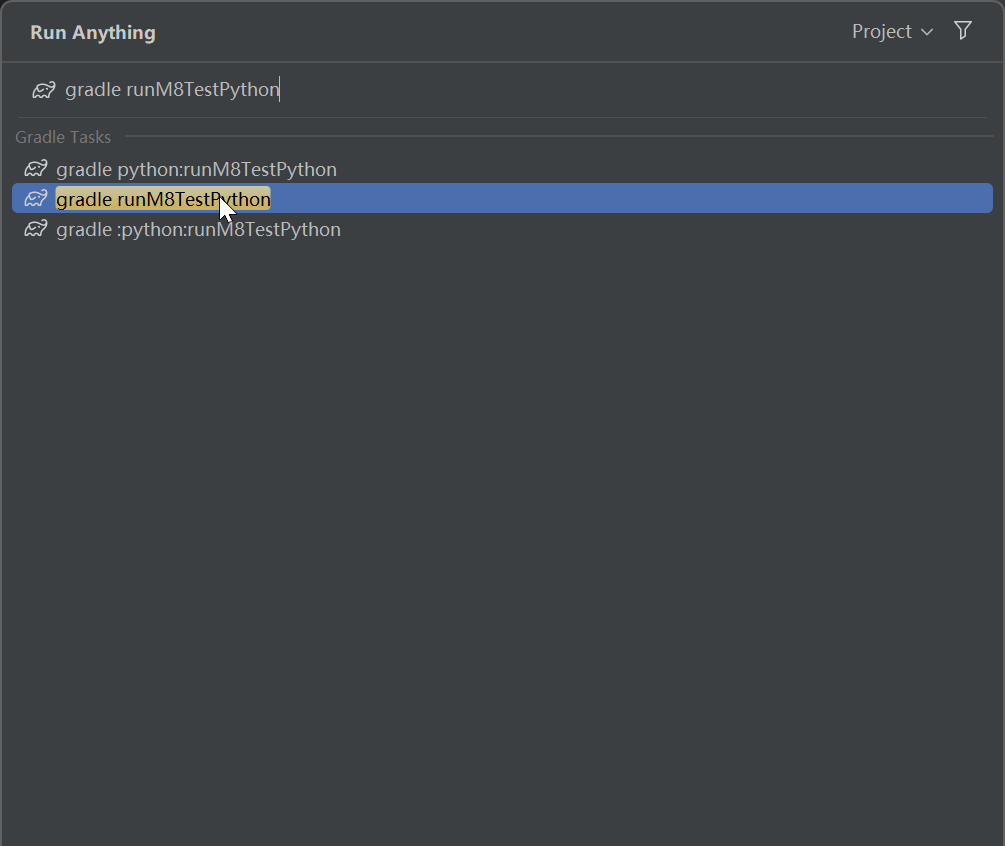
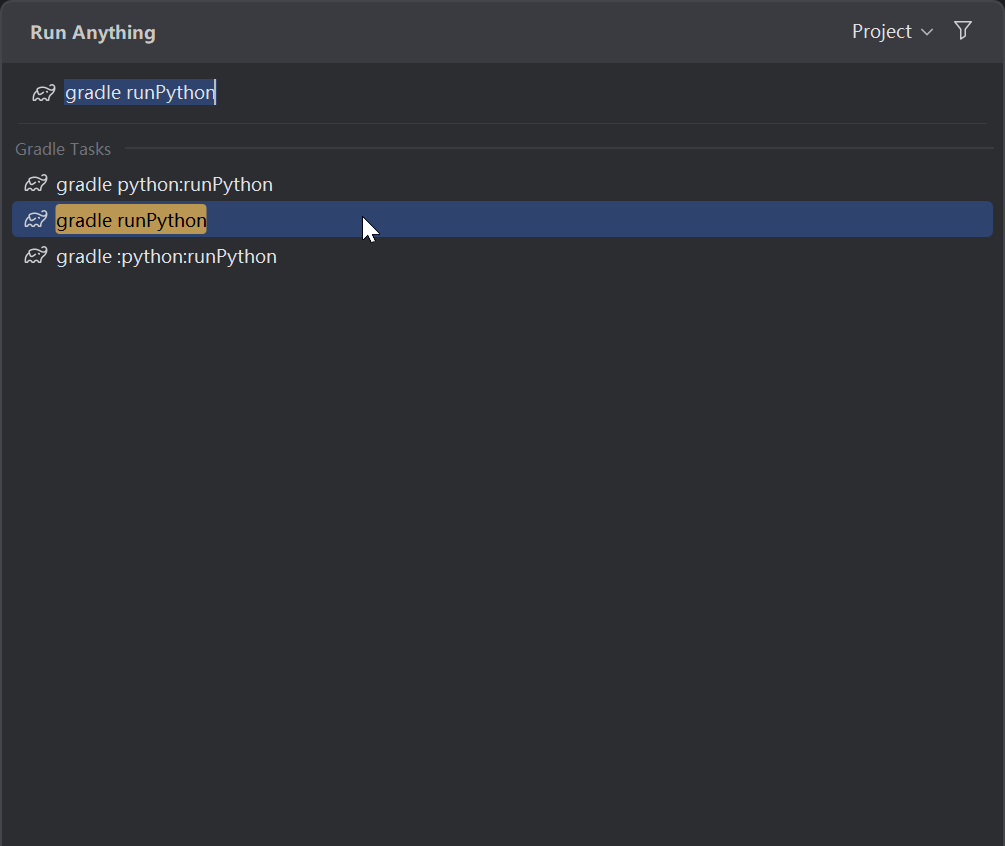
feat: 增加了UI相关代码

diff --git a/python/src/python/com/example/script/primary.py b/python/src/python/com/example/script/primary.py
@@ -1,0 +1,36 @@
+# from 引入时必须使用相对于src目录的路径
+from m8test_java.android.view.Gravity import Gravity
+from m8test_java.android.widget.Button import Button
+from m8test_java.android.widget.FrameLayout import FrameLayout
+# 必须使用 `from m8test_java.com.m8test.script.GlobalVariables import xxx` xxx是全局变量名
+from m8test_java.com.m8test.script.GlobalVariables import _activity
+from m8test_java.com.m8test.script.GlobalVariables import _androidView
+from m8test_java.com.m8test.script.GlobalVariables import _console
+from m8test_java.com.m8test.script.GlobalVariables import _reflectors
+from m8test_java.com.m8test.script.GlobalVariables import runOnUiThread
+from python.com.example.tool.ToolB import ToolB
+
+toolB = ToolB()
+toolB.methodB(_console)
+
+
+# 用于构建界面的函数
+def fn(frame_layout: FrameLayout):
+    button = Button(frame_layout.getContext())
+    button.setText("Hello")
+    # 添加按钮点击事件, 点击后设置按钮文本为Hi
+    button.setOnClickListener(lambda _: button.setText("Hi"))
+    # 如果不能通过`.`访问静态属性, 那么可以反射获取
+    wrap_content = (_reflectors.reflect(FrameLayout.LayoutParams)
+                    .getField(None, lambda selector: selector.setName("WRAP_CONTENT")))
+    layout_params = FrameLayout.LayoutParams(wrap_content, wrap_content)
+    # 居中显示按钮, 访问非内部类静态属性直接通过`.`调用
+    layout_params.gravity = Gravity.CENTER
+    # 添加视图时必须在安卓UI线程
+    runOnUiThread(lambda: frame_layout.addView(button, layout_params))
+
+
+# 创建需要显示的界面
+_androidView.create(False, fn)
+# 启动ui界面
+_activity.start()

diff --git a/python/src/python/com/example/tool/ToolB.py b/python/src/python/com/example/tool/ToolB.py
@@ -1,5 +1,5 @@
-from com.example.tool.ToolA import ToolA
 from m8test_java.com.m8test.script.core.api.console.Console import Console
+from python.com.example.tool.ToolA import ToolA
 
 
 class ToolB:

diff --git a/README.md b/README.md
@@ -7,23 +7,36 @@
 
 ## 📦 Gradle 任务说明
 
-1. **`buildM8TestPython`**  
-   构建 M8Test Python 脚本项目源码，但不执行脚本。构建完成后，源码位于 `build/project` 目录。
+### 任务分组
 
-2. **`generatePythonGlobalVariables`**  
-   生成 Python 全局变量，提供代码提示功能。需连接安卓设备，建议在编写代码前执行一次。如果 `build.gradle.kts`
-   中的依赖组件更新，需重新执行。
+1. **`m8test-build`**  
+   M8Test构建相关任务组，包含`buildPython`（构建Python项目）、`runPython`（运行项目）等任务。
 
-3. **`handlePythonAndroidJar`**  
-   生成 Android API 的 Python 代码提示文件。此任务耗时较长，执行一次即可。成功后，Python 代码中将有 Android API
-   的代码提示。
+2. **`m8test-code-completion`**  
+   M8Test代码补全相关任务组，包含`generatePythonAllCodeCompletionFiles` （生成所有需要的代码补全文件）,
+   `generatePythonGlobalVariables`（生成全局变量代码补全文件）等任务。
 
-4. **`installPythonInterceptor`**  
-   安装 Python 解析器。执行此任务会从网络下载 Python 并安装到 `~/.m8test/bin/python` 目录。若已安装 Python
-   解析器，执行此任务不会重新安装。
+3. **`m8test-developmenet-environment`**  
+   M8Test开发环境相关任务组，包含`installDevelopmentEnvironment`（安装开发环境）、`installPythonPlugin`（安装语言插件）等任务。
 
-5. **`runM8TestPython`**  
-   构建 M8Test Python 脚本项目，并将项目推送到已连接的安卓设备上运行。
+4. **`m8test-download`**  
+   M8Test资源下载相关任务组，包含`downloadPythonCodeTemplate`（下载示例代码模板）、`downloadPythonDocs`（下载文档）等任务。
+
+> 实际开发中主要关注构建任务和代码补全任务即可。
+
+### 常用任务
+
+| 任务名称                                                    | 任务分组                             | 功能描述                                                                                           |
+|---------------------------------------------------------|----------------------------------|------------------------------------------------------------------------------------------------|
+| `generatePythonAllCodeCompletionFiles`                  | `m8test-code-completion`         | 生成所有Python代码补全文件，会执行所有的 `generatePythonCodeXXXCodeCompletionFiles` 任务, 编写脚本之前执行一次此任务即可有代码提示功能。 |
+| `generatePythonGlobalVariables`                         | `m8test-code-completion`         | 生成Python全局变量代码补全文件，提供IDE代码提示功能。需连接安卓设备，建议编写代码前执行一次，依赖更新后需重新执行。                                 |
+| `generatePythonNormalAndroidCodeCompletionFiles`        | `m8test-code-completion`         | 生成 Android API 的 Python 代码提示文件。成功后，Python 代码中将有 Android API 的代码提示。                             |
+| `generatePythonNormalDevelopmentKitCodeCompletionFiles` | `m8test-code-completion`         | 生成 M8Test API 的 Python 代码提示文件。成功后，Python 代码中将有 M8Test API 的代码提示。                               |
+| `generatePythonComponentXXXCodeCompletionFiles`         | `m8test-code-completion`         | 生成 XXX 组件 API 的 Python 代码提示文件。成功后，Python 代码中将有 XXX 组件 API 的代码提示。                               |
+| `buildPython`                                           | `m8test-build`                   | 构建M8Test Python脚本项目源码（不执行），构建结果位于`build/project`目录。                                            |
+| `runPython`                                             | `m8test-build`                   | 构建并将项目推送到已连接的安卓设备上运行。                                                                          |
+| `buildPythonApk`                                        | `m8test-build`                   | 将M8Test Python脚本项目打包成APK文件。                                                                    |
+| `installPythonInterceptor`                              | `m8test-development-environment` | 安装 Python 解析器。执行此任务会从网络下载 Python 并安装到 `~/.m8test/bin/python` 目录。若已安装 Python 解析器，执行此任务不会重新安装。   |
 
 ---
 
@@ -32,7 +45,7 @@
 ### 方法一：使用快捷搜索
 
 1. 双击 `Ctrl` 键，打开搜索框。
-2. 输入 `gradle 任务名`，例如 `gradle runM8TestPython`，然后按回车执行。
+2. 输入 `gradle 任务名`，例如 `gradle runPython`，然后按回车执行。
 
    ![方法一示例](images/1.png)
 
@@ -47,7 +60,7 @@
 ### 方法三：使用终端命令
 
 1. 按下快捷键 `Alt + F12` 打开终端。
-2. 输入命令 `./gradlew 任务名`，例如 `./gradlew runM8TestPython`，然后按回车执行。
+2. 输入命令 `./gradlew 任务名`，例如 `./gradlew runPython`，然后按回车执行。
 
    ![方法三示例](images/3.png)
 
@@ -61,16 +74,13 @@
 
 ## 🛠 项目开发流程
 
-1. **生成全局变量**  
-   执行 `generatePythonGlobalVariables` 任务，生成 Python 全局变量，提供代码提示功能。
+1. **生成代码提示文件**  
+   执行 `generatePythonAllCodeCompletionFiles` 任务，生成 Python 代码补全文件，提供代码提示功能。
 
-2. **生成 Android API 提示文件**  
-   执行 `handlePythonAndroidJar` 任务，生成 Android API 的 Python 代码提示文件。
+2. **安装 Python 解析器**  
+   执行 `installPythonInterceptor` 任务，安装 Python 解析器, 如果使用M8Test集成开发环境的话已经自带python解析器, 此步骤可以跳过。
 
-3. **安装 Python 解析器**  
-   执行 `installPythonInterceptor` 任务，安装 Python 解析器。
-
-4. **配置 Python 解析器**
+3. **配置 Python 解析器**
 
    如果项目没有配置python解析器就会出现下面的提示, 这时候可以点击 `configure python interceptor` <br>
 
@@ -125,11 +135,14 @@
 
    ![](images/16.png)
 
-5. **连接日志服务**
+4. **连接日志服务**
 
    按下快捷键 `Alt + T`，依次选择 `M8Test` > `连接日志服务`。
 
-6. **编写并运行脚本**
+5. **编写并运行脚本**
 
-   编写代码并保存后，执行 `runM8TestPython` 任务，即可在安卓设备上运行脚本项目。确保安卓设备已开启 ADB 调试。运行日志可在
+   编写代码并保存后，执行 `runPython` 任务，即可在安卓设备上运行脚本项目。确保安卓设备已开启 ADB 调试。运行日志可在
    M8Test 日志面板中查看。
+
+6. **打包Apk**  
+   所有的脚本开发工作都完整后, 如果你需要打包成独立的apk可以执行 `buildPythonApk` 任务。
